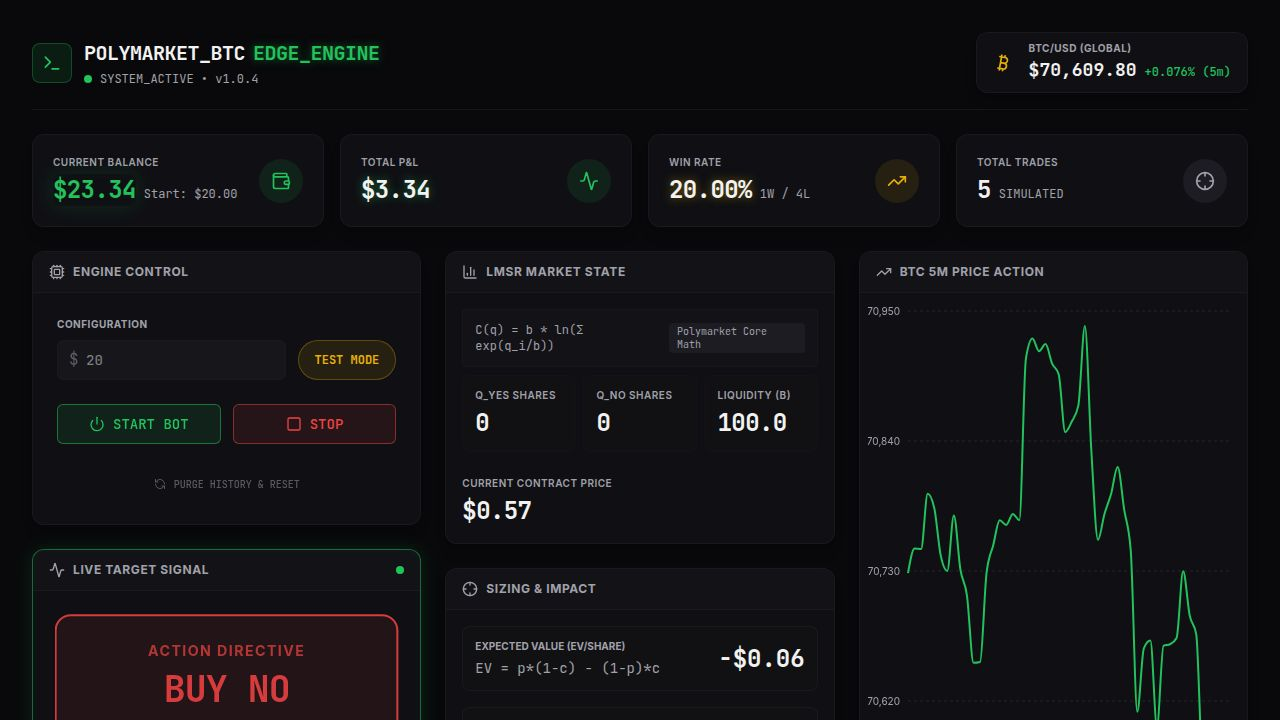
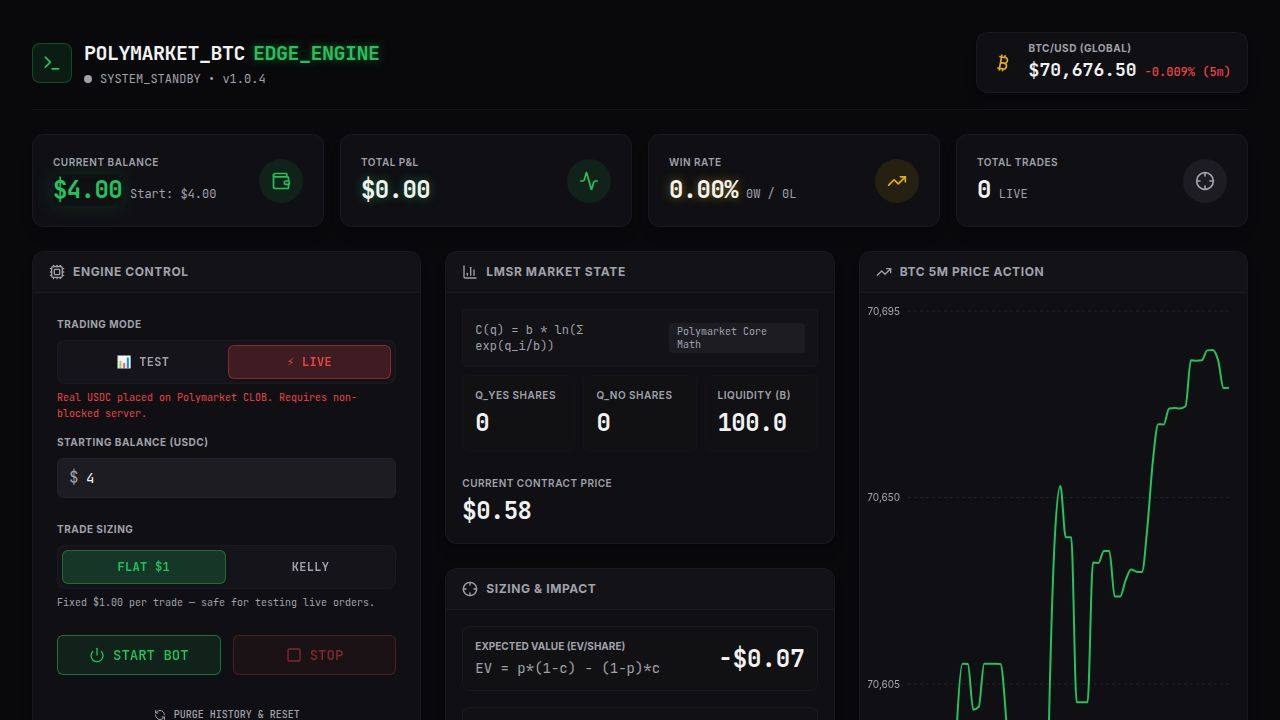
Add geoblocking warnings and instructions to the dashboard
Add a geoblock banner and a live mode warning to the dashboard UI to inform users about geographic restrictions and provide clear instructions on how to resolve them.

Replit-Commit-Author: Agent
Replit-Commit-Session-Id: 1fd27e89-5654-4de9-af55-5fc17ae39761
Replit-Commit-Checkpoint-Type: full_checkpoint
Replit-Commit-Event-Id: 2dad7e51-79d2-4730-9928-0232cdc20cee
Replit-Commit-Screenshot-Url: https://storage.googleapis.com/screenshot-production-us-central1/2219f5b5-ab01-4dc6-a503-d0ec582fa499/1fd27e89-5654-4de9-af55-5fc17ae39761/KndmERX
Replit-Helium-Checkpoint-Created: true

diff --git a/artifacts/polymarket-bot/src/pages/Dashboard.tsx b/artifacts/polymarket-bot/src/pages/Dashboard.tsx
@@ -95,6 +95,8 @@ export default function Dashboard() {
   const formatPct = (val?: number | null) => 
     val != null ? `${(val * 100).toFixed(2)}%` : '---';
 
+  const isGeoblocked = (botData as any)?.lastSignal?.includes("BLOCKED");
+
   // Format data for chart
   const chartData = btcData?.candles.map(c => ({
     time: format(new Date(c.time), 'HH:mm'),
@@ -106,6 +108,22 @@ export default function Dashboard() {
   return (
     <div className="min-h-screen bg-background text-foreground p-4 md:p-6 lg:p-8 space-y-6 max-w-[1600px] mx-auto">
       
+      {/* GEOBLOCK BANNER — shown when Polymarket blocked the live order */}
+      {isGeoblocked && (
+        <div className="flex items-start gap-3 bg-destructive/10 border border-destructive/50 rounded-xl px-5 py-4 font-mono text-sm">
+          <span className="text-destructive text-lg mt-0.5">⛔</span>
+          <div className="flex flex-col gap-1">
+            <span className="text-destructive font-bold tracking-wide">LIVE ORDERS BLOCKED — Geographic Restriction</span>
+            <span className="text-destructive/80 text-xs leading-relaxed">
+              Polymarket bans all US-based server IPs from placing orders. Replit runs on US servers, so every live order fails at the network level — not a code issue.
+            </span>
+            <span className="text-muted-foreground text-xs mt-1 leading-relaxed">
+              <strong className="text-foreground">To use LIVE mode:</strong> run the API server locally on your own machine, or deploy it to a EU cloud server (e.g. Hetzner Germany, DigitalOcean Frankfurt). TEST mode works perfectly here.
+            </span>
+          </div>
+        </div>
+      )}
+
       {/* HEADER */}
       <header className="flex flex-col md:flex-row items-start md:items-center justify-between gap-4 pb-4 border-b border-border/50">
         <div className="flex items-center gap-3">
@@ -244,12 +262,16 @@ export default function Dashboard() {
                       ⚡ LIVE
                     </button>
                   </div>
-                  <p className="text-[10px] font-mono mt-1.5 leading-relaxed">
-                    {mode === "test"
-                      ? <span className="text-warning">Paper trades on real Polymarket prices. P&amp;L reflects actual price movement.</span>
-                      : <span className="text-destructive">Real USDC placed on Polymarket CLOB. Requires non-blocked server.</span>
-                    }
-                  </p>
+                  {mode === "live" ? (
+                    <div className="mt-2 bg-destructive/10 border border-destructive/30 rounded-lg px-3 py-2 text-[10px] font-mono text-destructive/90 leading-relaxed space-y-1">
+                      <div className="font-bold">⛔ Replit servers are US-based</div>
+                      <div>Polymarket blocks all US IPs. Orders will fail here. Run the API server locally or on a EU VPS to use live mode.</div>
+                    </div>
+                  ) : (
+                    <p className="text-[10px] font-mono mt-1.5 text-warning leading-relaxed">
+                      Paper trades on real Polymarket prices. P&amp;L reflects actual BTC momentum.
+                    </p>
+                  )}
                 </div>
 
                 {/* Balance Input */}
